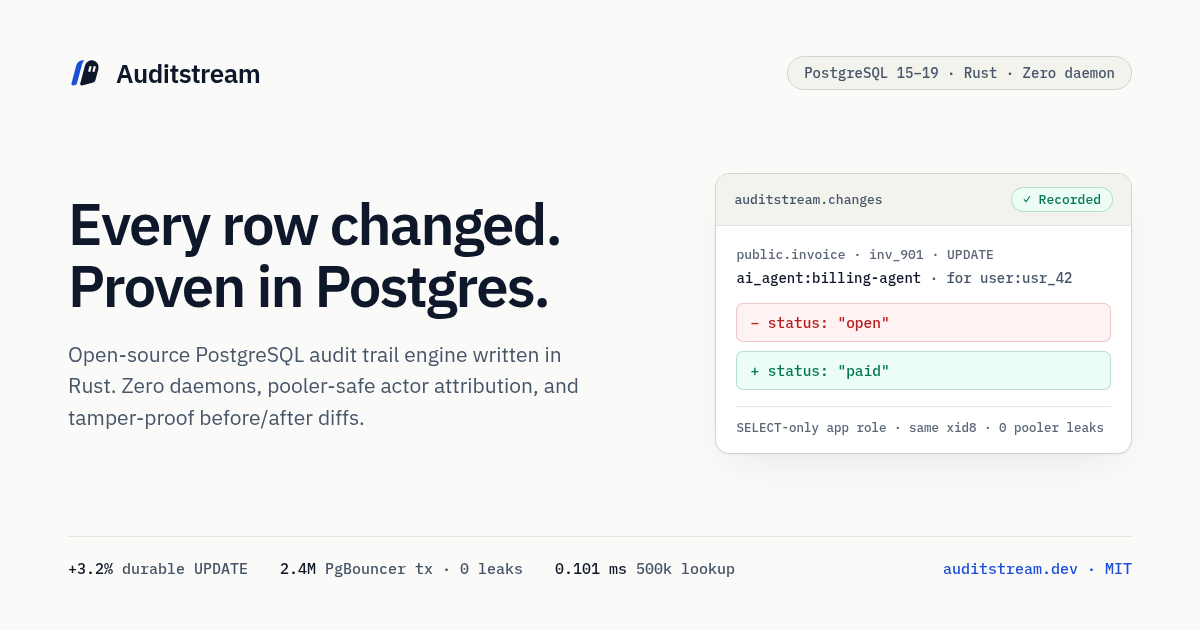
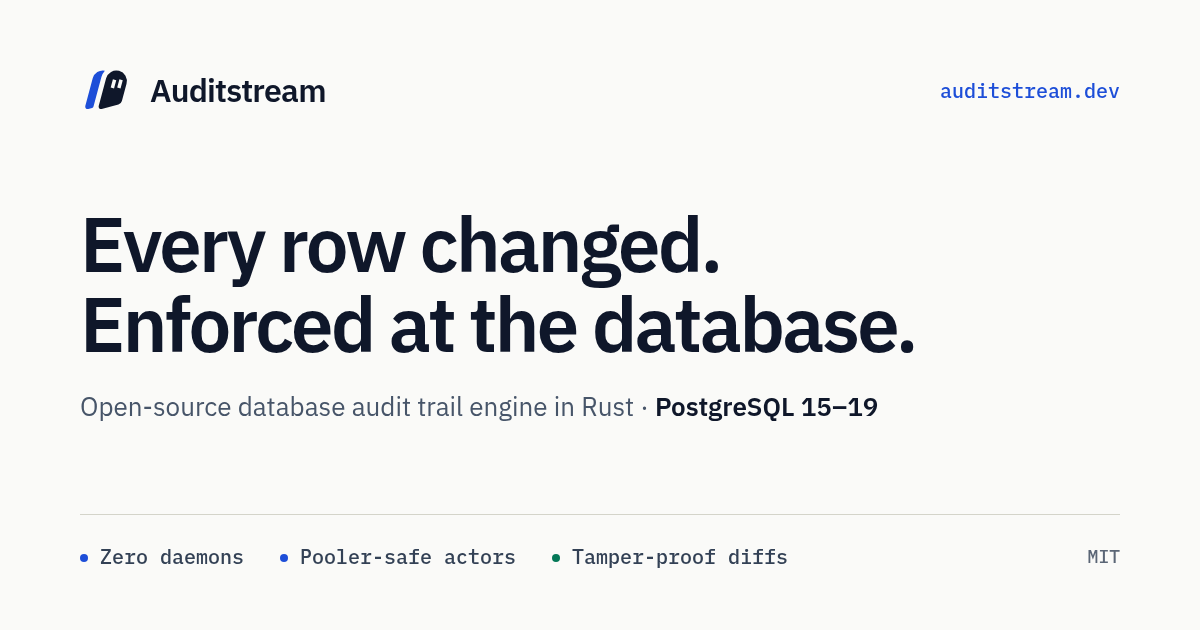
feat(positioning,ux): database-level messaging, 4-col proof band, Rule-of-3 OG image, and anchored callouts

diff --git a/src/styles/landing.css b/src/styles/landing.css
@@ -174,6 +174,11 @@
   text-wrap: pretty;
 }
 
+.pillar-em {
+  color: var(--ink);
+  font-weight: 500;
+}
+
 /* ----------------------------------------------------------------------------
    Block 3: Clean Code Showcase
    ---------------------------------------------------------------------------- */
@@ -233,13 +238,20 @@
   margin-top: clamp(2rem, 4vw, 3rem);
   display: grid;
   grid-template-columns: minmax(0, 1fr);
-  gap: 2.25rem;
+  gap: 2rem;
 }
 
-@media (min-width: 768px) {
+@media (min-width: 640px) {
   .proof-grid {
-    grid-template-columns: repeat(3, minmax(0, 1fr));
-    gap: clamp(2rem, 4vw, 3.25rem);
+    grid-template-columns: repeat(2, minmax(0, 1fr));
+    gap: 2.25rem 2.5rem;
+  }
+}
+
+@media (min-width: 1120px) {
+  .proof-grid {
+    grid-template-columns: repeat(4, minmax(0, 1fr));
+    gap: clamp(1.5rem, 2.6vw, 2.25rem);
   }
 }
 
@@ -248,14 +260,37 @@
   padding-top: 1.25rem;
 }
 
+.proof-metric-row {
+  display: flex;
+  flex-wrap: wrap;
+  align-items: baseline;
+  gap: 0.45rem 0.65rem;
+}
+
 .proof-metric {
   font-family: var(--font-mono);
-  font-size: clamp(2rem, 3.2vw, 2.85rem);
+  font-size: clamp(1.85rem, 2.6vw, 2.35rem);
   font-weight: 600;
   letter-spacing: -0.03em;
-  line-height: 1.04;
+  line-height: 1.06;
   font-variant-numeric: tabular-nums;
   color: var(--ink);
+  white-space: nowrap;
+}
+
+.proof-limit-tag {
+  display: inline-flex;
+  align-items: center;
+  padding: 0.12rem 0.5rem;
+  border: 1px solid var(--rule-strong);
+  border-radius: var(--radius-pill);
+  background: var(--surface);
+  font-family: var(--font-mono);
+  font-size: 0.75rem;
+  font-weight: 500;
+  line-height: 1.3;
+  color: var(--ink-2);
+  white-space: nowrap;
 }
 
 .proof-desc {
@@ -267,21 +302,14 @@
 }
 
 .proof-foot {
-  margin-top: clamp(2rem, 4vw, 2.75rem);
-  padding-top: 1.35rem;
+  margin-top: clamp(2rem, 3.5vw, 2.5rem);
+  padding-top: 1.25rem;
   border-top: 1px solid var(--rule);
   display: flex;
-  flex-direction: column;
-  align-items: flex-start;
-  gap: 0.75rem;
-}
-
-.proof-limit {
-  margin: 0;
-  font-size: 0.875rem;
-  line-height: 1.6;
-  color: var(--ink-2);
-  text-wrap: pretty;
+  flex-wrap: wrap;
+  align-items: center;
+  justify-content: flex-start;
+  gap: 0.75rem 1.75rem;
 }
 
 .proof-links {

diff --git a/DESIGN.md b/DESIGN.md
@@ -1,6 +1,6 @@
 ---
 name: Auditstream
-description: Warm Architectural Paper (Light-Only) editorial design system for PostgreSQL audit trail engineering — crisp gallery surfaces, Editorial Cobalt, Committed Emerald, Diff Vermilion, and IBM Plex typography.
+description: Warm Architectural Paper (Light-Only) editorial design system for database audit trail engineering — crisp gallery surfaces, Editorial Cobalt, Committed Emerald, Diff Vermilion, and IBM Plex typography.
 colors:
   editorial-cobalt: "#1d4ed8"
   editorial-cobalt-hover: "#1e40af"
@@ -40,9 +40,9 @@ typography:
     letterSpacing: "-0.028em"
   metric:
     fontFamily: "\"IBM Plex Mono\", ui-monospace, SFMono-Regular, monospace"
-    fontSize: "clamp(2rem, 3.2vw, 2.85rem)"
+    fontSize: "clamp(1.85rem, 2.6vw, 2.35rem)"
     fontWeight: 600
-    lineHeight: 1.04
+    lineHeight: 1.06
     letterSpacing: "-0.03em"
   kpi:
     fontFamily: "\"IBM Plex Mono\", ui-monospace, SFMono-Regular, monospace"
@@ -221,7 +221,7 @@ Every foreground/background pair — including muted labels (`#5b6676`), syntax 
 ### Hierarchy
 - **Display** (`600`, `clamp(2.25rem, 5vw, 3.85rem)`, line-height `1.07`, tracking `-0.03em`): Centered two-line hero headline only.
 - **Headline & Docs Title** (`600`, `clamp(1.75rem, 3vw, 2.5rem)` on landing; `clamp(1.85rem, 3vw, 2.35rem)`, tracking `-0.028em` for documentation `h1` page titles, line-height `1.12`, `text-wrap: balance`).
-- **Metric** (`600` mono, `clamp(2rem, 3.2vw, 2.85rem)`, line-height `1.04`, tracking `-0.03em`, `tabular-nums`): Measured proof strip figures (`+3.2%`, `2.4M`, `0.101 ms`).
+- **Metric** (`600` mono, `clamp(1.85rem, 2.6vw, 2.35rem)`, line-height `1.06`, tracking `-0.03em`, `tabular-nums`): Measured proof strip figures (`+3.2%`, `2.4M`, `0.101 ms`, `~15k/s`).
 - **Subhead & Title** (`600`, `1.3125rem` docs `h2` at `1.25` line-height, `1.03125rem` docs `h3` at `-0.012em` tracking, and `1.0625rem` landing borderless pillar headings).
 - **Body & Prose** (`400`, `0.9375rem` / `15px` at `1.7` line-height in docs with `1.03125rem` / `1.58` page descriptions; `0.9375rem`–`1.125rem` on landing): Flows across the unified `47rem` (`752px`) reading rail in docs with `text-wrap: pretty` for even visual rhythm with tables, steps, callouts, and code frames.
 - **Code** (`400` mono, `0.84375rem` / `13.5px`, line-height `1.68`; inline code `0.84em` on `#f1f0eb`): Single-theme Light Shiki blocks and the Hero capture visual.

diff --git a/src/content/docs/index.md b/src/content/docs/index.md
@@ -1,6 +1,6 @@
 ---
 title: Overview
-description: PostgreSQL triggers capture every row change; your application only passes who acted.
+description: Database-level audit trails starting with PostgreSQL 15–19 — triggers capture every row change; your application only passes who acted.
 section: Get Started
 order: 1
 eyebrow: GET STARTED · OVERVIEW
@@ -15,7 +15,7 @@ eyebrow: GET STARTED · OVERVIEW
 <div class="docs-steps">
   <div class="docs-step">
     <div class="docs-step-num">01 · Capture</div>
-    <div class="docs-step-title">Generate PG triggers</div>
+    <div class="docs-step-title">Generate DB triggers</div>
     <div class="docs-step-desc">One CLI command generates <code>auditstream.changes</code> and its capture triggers.</div>
   </div>
   <div class="docs-step">
@@ -44,12 +44,9 @@ eyebrow: GET STARTED · OVERVIEW
     <div class="docs-card-desc">Use @auditstream/* v0.2.0 with Hono, Express, Next.js 16, Prisma 7, and Drizzle.</div>
   </a>
   <a class="docs-card" href="/docs/python/">
-    <div class="docs-card-head">
-      <div class="docs-card-tag">SDKs &amp; Languages</div>
-      <span class="docs-card-badge">Soon</span>
-    </div>
+    <div class="docs-card-tag">SDKs &amp; Languages</div>
     <div class="docs-card-title">Python</div>
-    <div class="docs-card-desc">Django, Flask, and FastAPI SDK roadmap plus working psycopg attribution today.</div>
+    <div class="docs-card-desc">Attribute PostgreSQL writes from psycopg today; Django, Flask, and FastAPI adapters planned.</div>
   </a>
   <a class="docs-card" href="/docs/plain-sql/">
     <div class="docs-card-tag">SDKs &amp; Languages</div>

diff --git a/src/content/docs/python.md b/src/content/docs/python.md
@@ -1,14 +1,13 @@
 ---
 title: Python
-description: Official Python SDK for Django, Flask, and FastAPI is coming soon — and you can attribute PostgreSQL writes from psycopg today with zero dependencies.
+description: Attribute PostgreSQL writes from Python today using psycopg with zero extra dependencies — plus planned adapters for Django, Flask, and FastAPI.
 section: SDKs & Languages
 order: 4
-badge: Soon
 eyebrow: SDKS & LANGUAGES · PYTHON
 ---
 
 <div class="docs-callout-info">
-  <strong>Python SDK coming soon:</strong> Native packages for Django, Flask, and FastAPI are on the roadmap. Capture runs inside PostgreSQL triggers, so you can attribute writes from <code>psycopg</code> today using the examples below.
+  <strong>Native Python SDK planned:</strong> Dedicated packages for Django, Flask, and FastAPI are on the roadmap. Because capture runs inside PostgreSQL triggers, you can attribute writes from <code>psycopg</code> today using only Python's standard library.
 </div>
 
 ## Planned Python SDK

diff --git a/src/content/docs/cloud-and-security.md b/src/content/docs/cloud-and-security.md
@@ -54,4 +54,4 @@ Every release runs static analysis, memory-safety enforcement, and provenance ch
 | **OpenSSF Scorecard** | **7.2 / 10** automated supply-chain score (`auditstream-js`) | [Scorecard](https://scorecard.dev/viewer/?uri=github.com/auditstream/auditstream-js) |
 | **Provenance & Docker** | SLSA Build Attestations, multi-arch (`amd64`/`arm64`) `distroless/static-debian12:nonroot` pinned by SHA-256 (`USER nonroot:nonroot`), npm Sigstore provenance | [Attestations](https://github.com/auditstream/auditstream/attestations) |
 
-**Vulnerability disclosure:** Report security issues privately via [SECURITY.md](https://github.com/auditstream/auditstream/security/policy) (`security@auditstream.dev`, 3-business-day acknowledgment target).
+> **Vulnerability disclosure:** Report security issues privately via [SECURITY.md](https://github.com/auditstream/auditstream/security/policy) (`security@auditstream.dev`, 3-business-day acknowledgment target).

diff --git a/src/content/docs/evidence.md b/src/content/docs/evidence.md
@@ -111,7 +111,7 @@ Transaction mode with 64 clients on 8 server connections (8× oversubscribed): *
 | `extended` | **49,957.2 tps** | 22,637.9 tps | **2.21×** | 722,863 tx |
 | `prepared` | **42,457.4 tps** | 23,391.1 tps | **1.82×** | 655,781 tx |
 
-Mixed leak test (`extended`): **272,053 interleaved tx** (136,051 `set_config` + 136,002 actor-less), **0 leaks**, **0 failed** (**2,407,659 tx** total). Comments sustain **1.8×–2.4× higher throughput** because auto-commit avoids holding a pool slot across `BEGIN … COMMIT`.
+> **Mixed leak test (`extended`):** **272,053 interleaved tx** (136,051 `set_config` + 136,002 actor-less), **0 leaks**, **0 failed** (**2,407,659 tx** total). Comments sustain **1.8×–2.4× higher throughput** because auto-commit avoids holding a pool slot across `BEGIN … COMMIT`.
 
 ### 500k-row CLI scale
 

diff --git a/src/content/docs/capture.md b/src/content/docs/capture.md
@@ -74,4 +74,4 @@ Triggers execute as `SECURITY DEFINER` owned by `NOLOGIN` role `auditstream_owne
 
 Logical replication (`pgoutput`) requires `wal_level = logical`, `REPLICA IDENTITY FULL`, an always-on consumer whose stalled slot can fill disk, and explicit transactions for `pg_logical_emit_message()`. Triggers give teams structured audits inside standard PostgreSQL with zero new infrastructure.
 
-Contributing to the Rust engine? Explore the Cargo workspace in [`auditstream/auditstream`](https://github.com/auditstream/auditstream).
+> **Contributing to the Rust engine?** Explore the Cargo workspace in [`auditstream/auditstream`](https://github.com/auditstream/auditstream).

diff --git a/src/content/docs/getting-started.md b/src/content/docs/getting-started.md
@@ -162,5 +162,3 @@ auditstream export \
 | **Prisma** | 7.1+ (`7.x`) | Official SQL comments plugin; Prisma 6 unsupported |
 | **Drizzle** | 0.45 and 1.x | `auditComment()` on 1.x; `/pg`, `/postgres-js`, `/neon-http` on 0.45 |
 | **Runtimes** | Node, Bun, Deno, Workers | `AsyncLocalStorage.run()` only (Workers: `nodejs_als` or compat ≥ 2026-08-04) |
-
-See also: [CLI & Day-2 Operations](/docs/cli/), [Cloud, Poolers & Security](/docs/cloud-and-security/), and [Benchmarks & Limits](/docs/evidence/).
